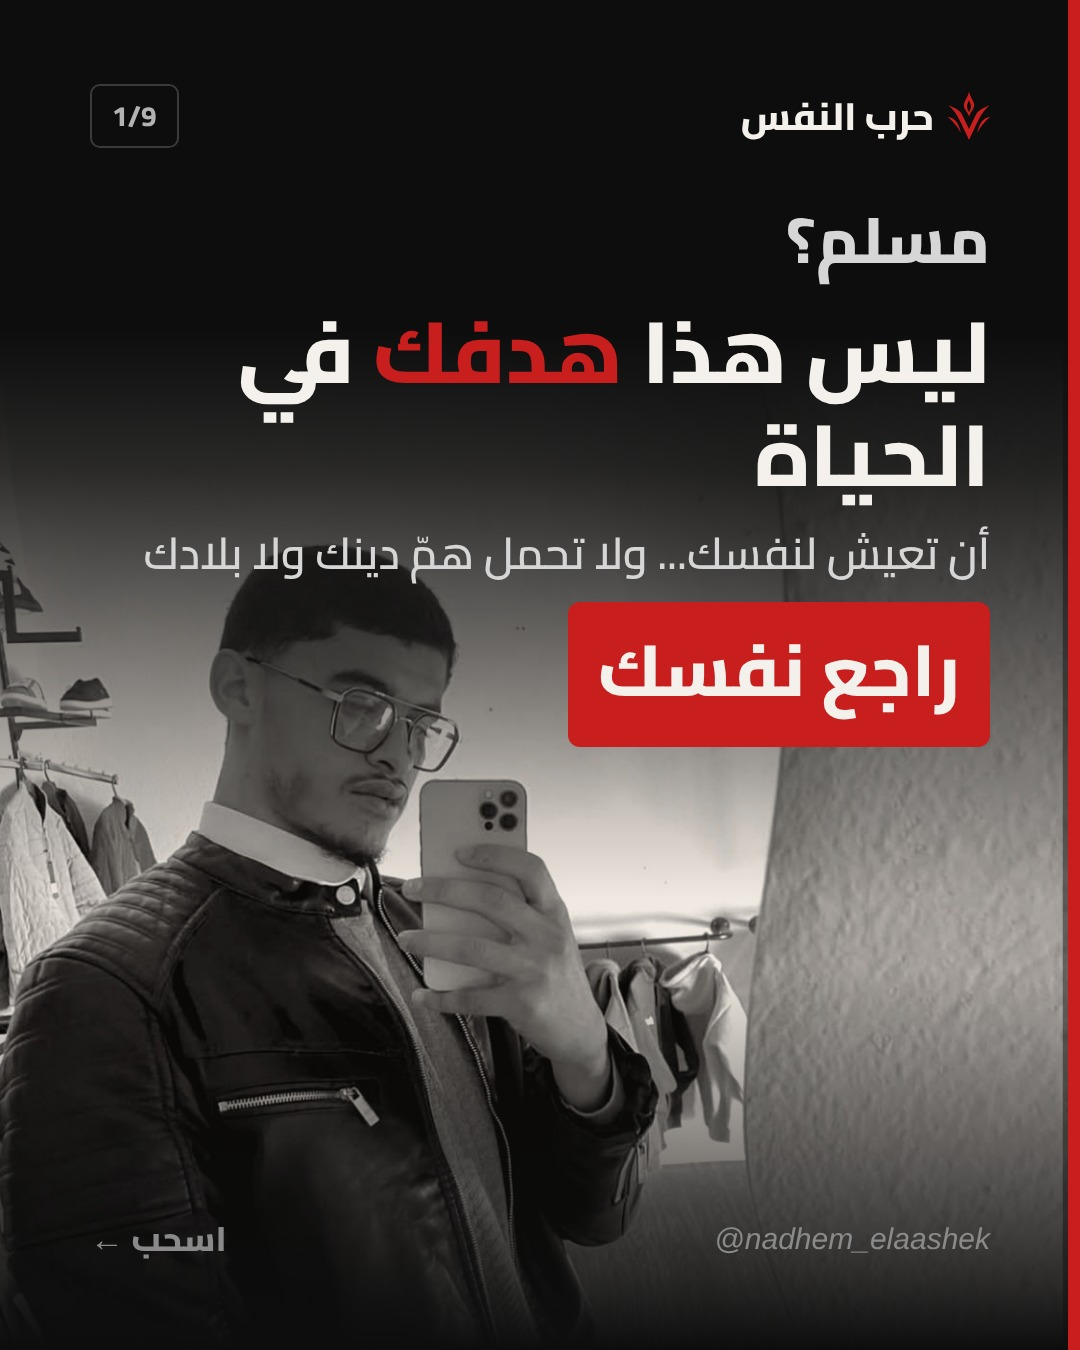
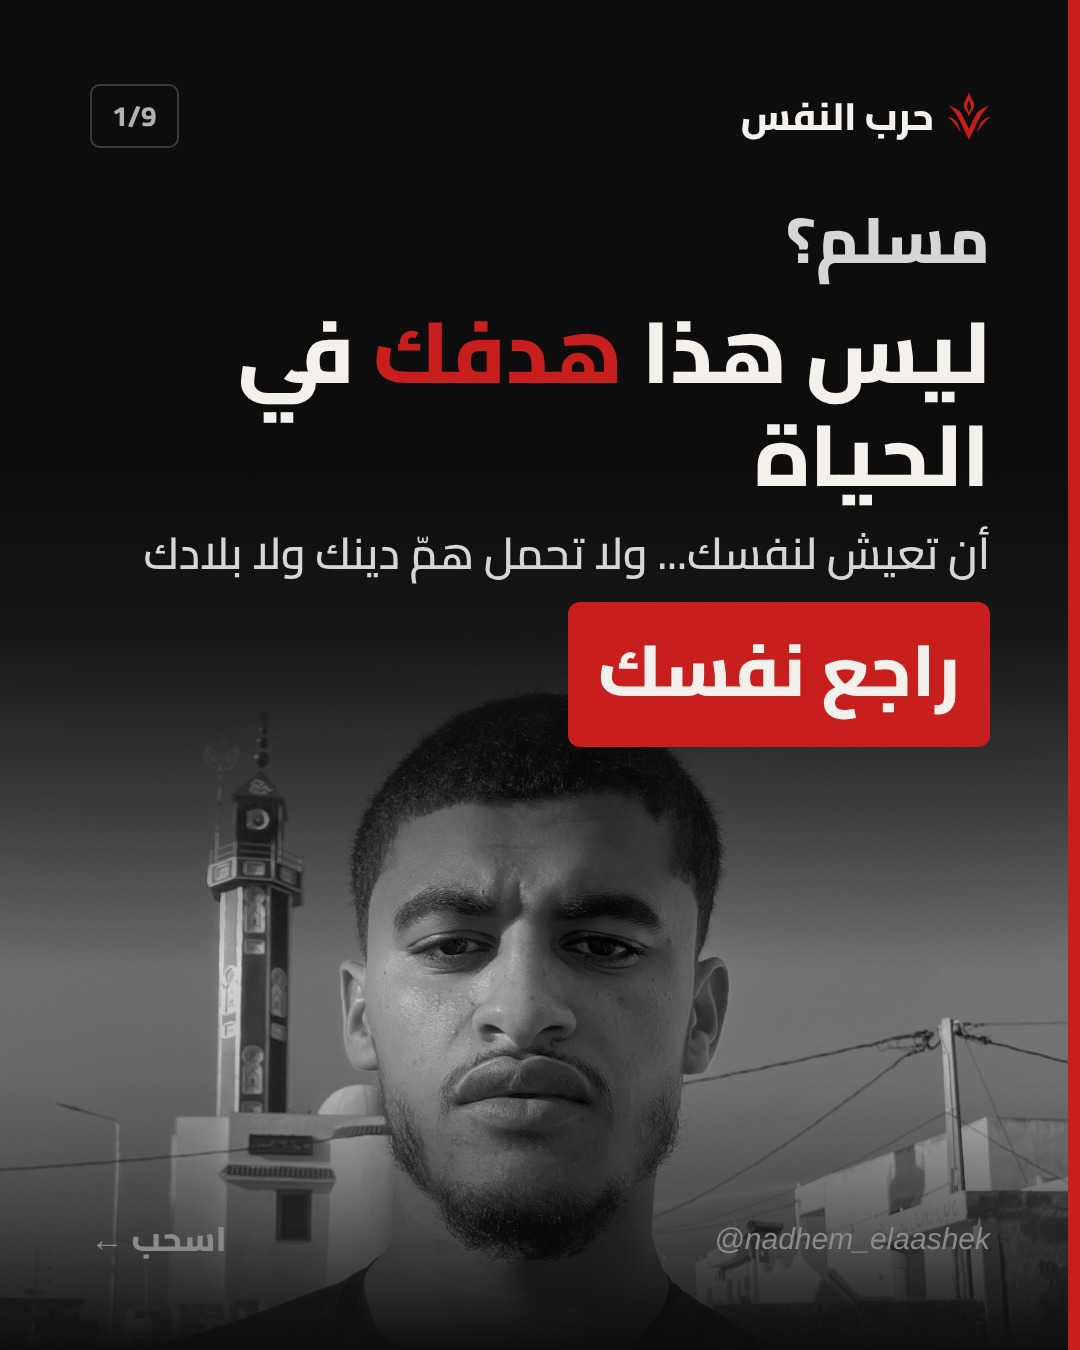
Carousel nusra: new cover photo
Claude-Session: https://claude.ai/code/session_01Y9GV4BYF4VbJnjGJPUvVEt

diff --git a/carousels/nusra/index.html b/carousels/nusra/index.html
@@ -1,7 +1,7 @@
 <!doctype html><html lang="ar" dir="rtl"><head><meta charset="utf-8"><meta name="viewport" content="width=device-width,initial-scale=1"><title>إن تنصروا الله</title>
 <style>body{margin:0;background:#0D0D0D;color:#F4F1EC;font-family:system-ui,sans-serif;padding:16px}h1{font-size:20px}p{color:#aaa;font-size:14px}img{width:100%;max-width:540px;display:block;margin:0 auto 14px;border-radius:10px}textarea{width:100%;max-width:540px;display:block;margin:0 auto;height:200px;background:#181818;color:#F4F1EC;border:1px solid #333;border-radius:8px;padding:10px;font-size:15px;box-sizing:border-box}button{display:block;margin:10px auto 30px;background:#C81E1E;color:#fff;border:0;border-radius:8px;padding:12px 24px;font-size:16px}</style></head><body>
 <h1>كاروسيل «إن تنصروا الله» · 9 شرائح</h1><p>اضغط مطوّلًا على كل صورة ← «حفظ في الصور».</p>
-<img src="01.jpg"><img src="02.jpg"><img src="03.jpg"><img src="04.jpg"><img src="05.jpg"><img src="06.jpg"><img src="07.jpg"><img src="08.jpg"><img src="09.jpg">
+<img src="01.jpg?v=3"><img src="02.jpg"><img src="03.jpg"><img src="04.jpg"><img src="05.jpg"><img src="06.jpg"><img src="07.jpg"><img src="08.jpg"><img src="09.jpg">
 <textarea id="t">مسلم؟ ليس هدفك في الحياة أن تعيش لنفسك فقط. راجع نفسك.
 
 إن لم ننصر ديننا نحن الشباب، فمن ينصره؟ وإن لم ننهض ببلادنا، فمن ينهض بها؟
